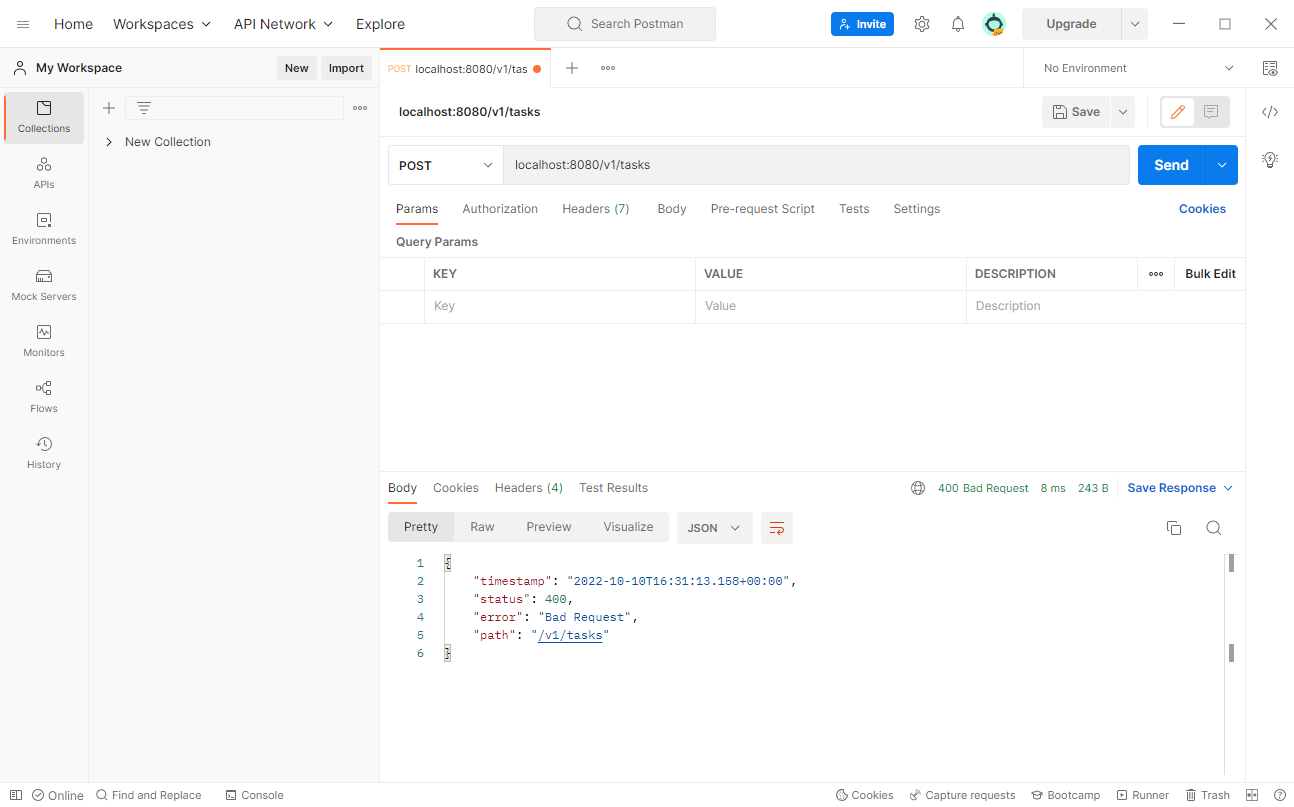
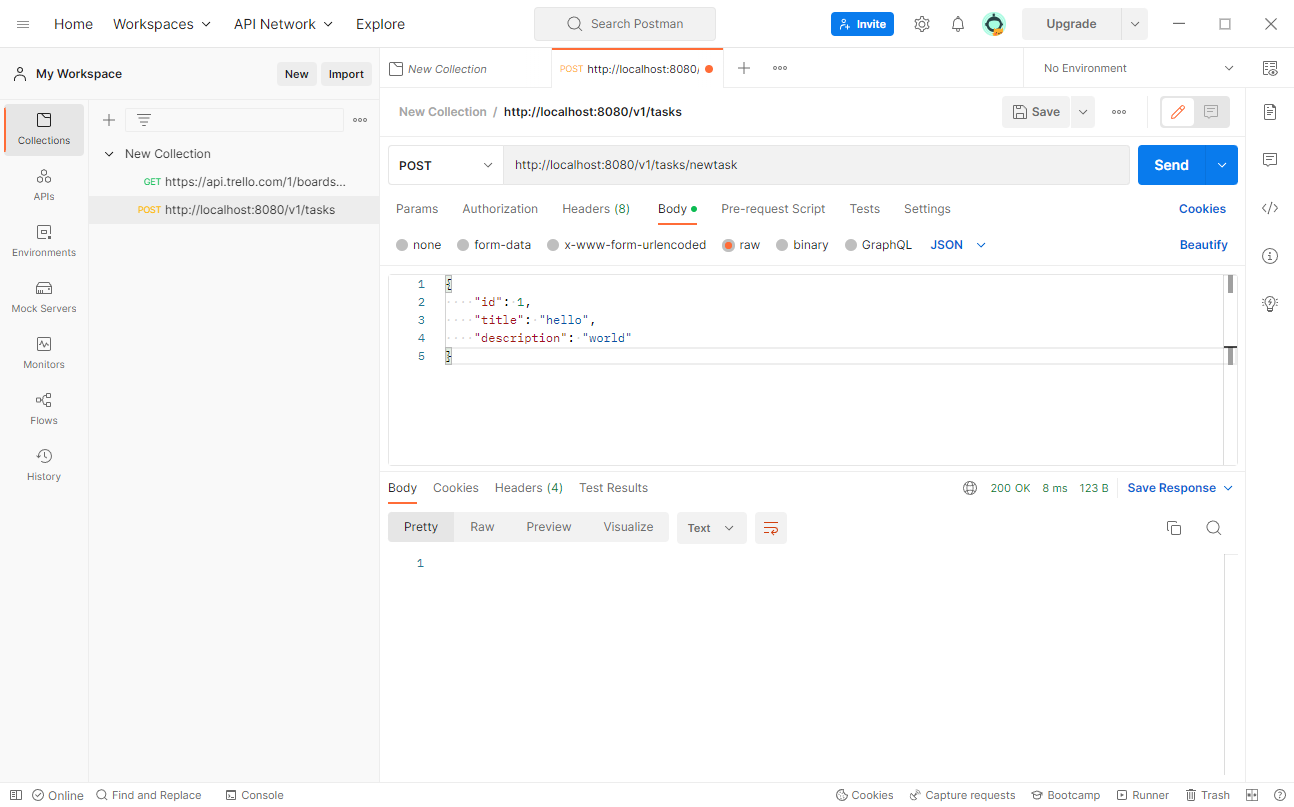
18-5 update

diff --git a/src/main/java/com/crud/tasks/controller/TaskController.java b/src/main/java/com/crud/tasks/controller/TaskController.java
@@ -2,7 +2,6 @@ package com.crud.tasks.controller;
 
 import java.util.ArrayList;
 import java.util.List;
-
 import com.crud.tasks.domain.TaskDto;
 import org.springframework.web.bind.annotation.*;
 
@@ -15,8 +14,8 @@ public class TaskController {
         return new ArrayList<>();
     }
 
-    @GetMapping
-    public TaskDto getTask(Long taskId) {
+    @GetMapping(value = "{taskId}")
+    public TaskDto getTask(@PathVariable Long taskId) {
         return new TaskDto(1L, "test title", "test description");
     }
 
@@ -26,12 +25,11 @@ public class TaskController {
     }
 
     @PutMapping
-    public TaskDto updateTask(TaskDto task) {
+    public TaskDto updateTask(@RequestBody TaskDto task) {
         return new TaskDto(1L, "Edited title", "Edited description");
     }
 
-    @PostMapping
-    public void createTask(TaskDto task) {
-
+    @PostMapping(path = "/newtask", consumes = {"application/json"})
+    public void createTask(@RequestBody TaskDto taskDto) {
     }
 }

diff --git a/src/main/java/com/crud/tasks/TasksApplication.java b/src/main/java/com/crud/tasks/TasksApplication.java
@@ -8,19 +8,7 @@ import org.springframework.boot.autoconfigure.SpringBootApplication;
 public class TasksApplication {
 
 	public static void main(String[] args) {
-		TaskDto taskDto = new TaskDto(
-				(long)1,
-				"Test title",
-				"My new task"
-		);
-
-		Long id = taskDto.getId();
-		String title = taskDto.getTitle();
-		String description = taskDto.getDescription();
-
-		System.out.println(id + " " + title + " " + description);
-
-//		SpringApplication.run(TasksApplication.class, args);
+		SpringApplication.run(TasksApplication.class, args);
 	}
 
 }
